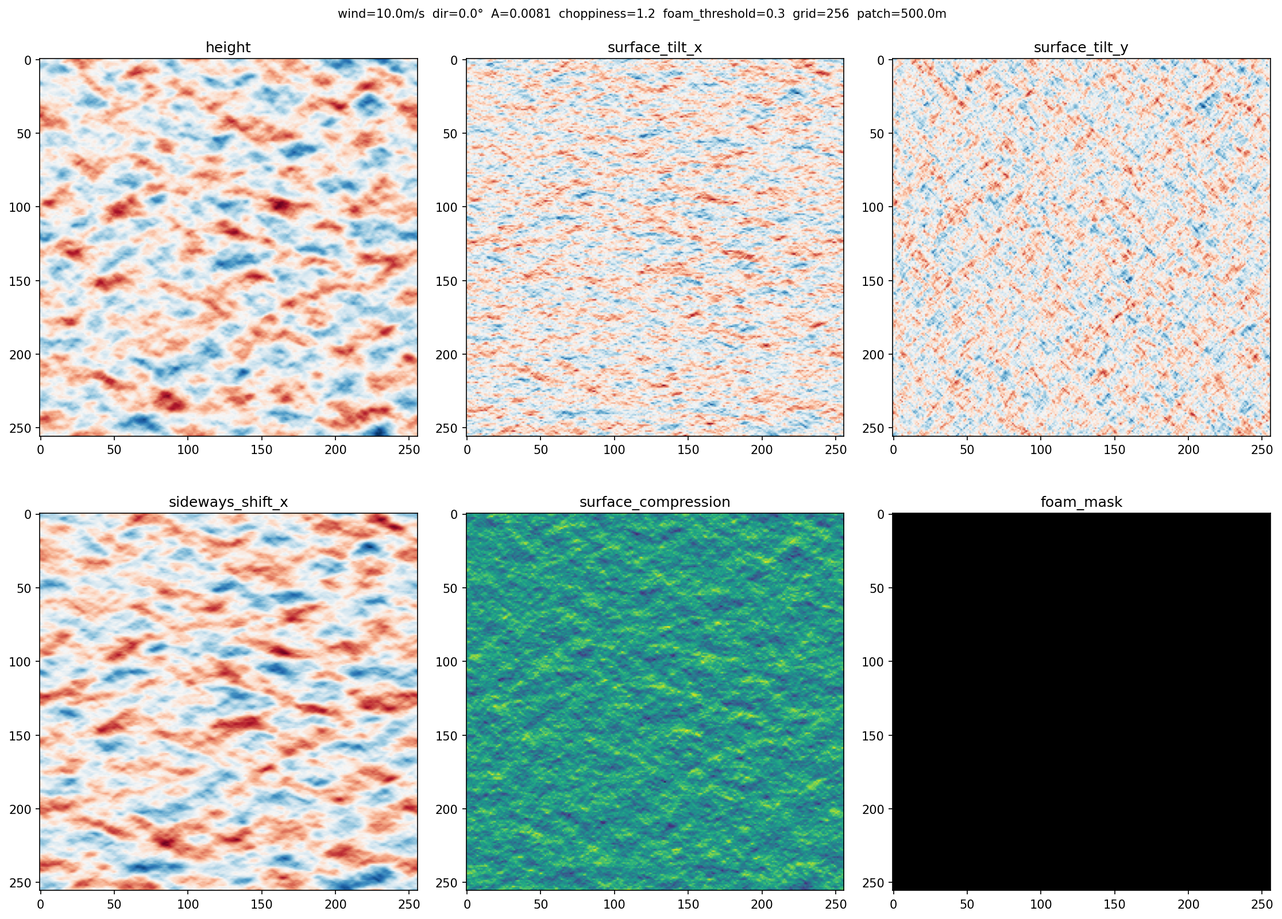
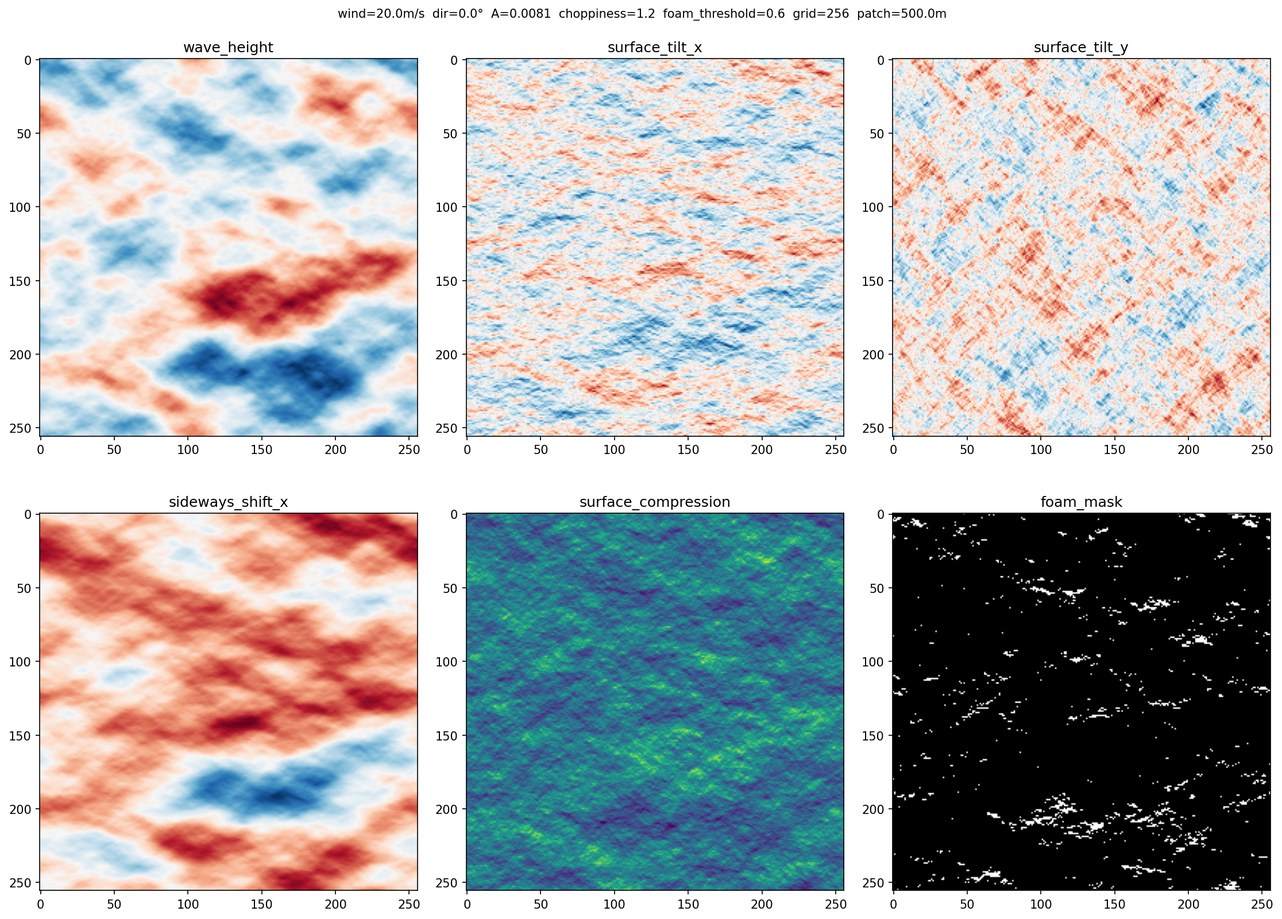
Implemented ModernGL Rendering for ocean

diff --git a/rendering/renderer.py b/rendering/renderer.py
@@ -6,13 +6,9 @@ import pyrr
 from PIL import Image
 
 from ocean.parameters import (
-    CHOPPINESS,
-    FOAM_THRESHOLD,
-    GRID_RESOLUTION,
-    GRID_SIZE,
-    HEIGHT_SCALE,
-    WIND_DIRECTION_DEG,
-    WIND_SPEED,
+    CAMERA_EYE, CHOPPINESS, DEEP_COLOUR, DEPTH_SCALE,
+    FOAM_THRESHOLD, GRID_RESOLUTION, GRID_SIZE, HEIGHT_SCALE,
+    SHALLOW_COLOUR, SUN_DIR, WIND_DIRECTION_DEG, WIND_SPEED,
 )
 
 
@@ -107,27 +103,48 @@ def test_mesh(width=800, height=600):
     print("Mesh render saved")
 
 
-def test_textures(width=800, height=600):
+def test_textures(width=1024, height=1024):
+    from ocean.parameters import default_params
+    params = default_params()
+    image = render(params, width, height)
+    os.makedirs('images', exist_ok=True)
+    image.save('images/test_textures.png')
+    print("Texture render saved")
+
+def run_ocean_pipeline(params):
     from ocean.simulation import compute_oscillation_rates, compute_surface_fields, time_evolve
     from ocean.spectrum import generate_initial_amplitudes, make_spatial_frequency_grid, phillips_spectrum
+
+    freq_x, freq_y, magnitude = make_spatial_frequency_grid(
+        params['grid_resolution'], params['grid_size']
+    )
+    wave_energy = phillips_spectrum(
+        freq_x, freq_y, magnitude, params['wind_speed'], params['wind_direction_deg']
+    )
+    initial_amplitudes, initial_amplitudes_mirror = generate_initial_amplitudes(wave_energy)
+    oscillation_rate = compute_oscillation_rates(magnitude)
+    freq_amplitudes = time_evolve(
+        initial_amplitudes, initial_amplitudes_mirror, oscillation_rate, t=params['time']
+    )
+    wave_height, surface_tilt_x, surface_tilt_y, sideways_shift_x, sideways_shift_y, foam_mask, _ = \
+        compute_surface_fields(
+            freq_amplitudes, freq_x, freq_y, magnitude,
+            params['foam_threshold'], params['choppiness'], params['height_scale']
+        )
+    return wave_height, surface_tilt_x, surface_tilt_y, sideways_shift_x, sideways_shift_y, foam_mask
+
+
+def render(params, width=1024, height=1024):
     from rendering.mesh import create_grid_mesh
     from rendering.textures import upload_all_textures
 
-    # Phase 1 pipeline
-    freq_x, freq_y, magnitude = make_spatial_frequency_grid(GRID_RESOLUTION, GRID_SIZE)
-    wave_energy = phillips_spectrum(freq_x, freq_y, magnitude, WIND_SPEED, WIND_DIRECTION_DEG)
-    initial_amplitudes, initial_amplitudes_mirror = generate_initial_amplitudes(wave_energy)
-    oscillation_rate = compute_oscillation_rates(magnitude)
-    freq_amplitudes = time_evolve(initial_amplitudes, initial_amplitudes_mirror, oscillation_rate, t=0.0)
-    wave_height, surface_tilt_x, surface_tilt_y, sideways_shift_x, sideways_shift_y, foam_mask, _ = \
-        compute_surface_fields(freq_amplitudes, freq_x, freq_y, magnitude, FOAM_THRESHOLD)
-
-    print(f"wave_height min: {wave_height.min():.4f}, max: {wave_height.max():.4f}")
+    wave_height, surface_tilt_x, surface_tilt_y, sideways_shift_x, sideways_shift_y, foam_mask = \
+        run_ocean_pipeline(params)
 
     ctx = create_context()
     fbo = create_framebuffer(ctx, width, height)
     program = load_shaders(ctx)
-    vbo, ibo = create_grid_mesh(ctx, grid_resolution=GRID_RESOLUTION)
+    vbo, ibo = create_grid_mesh(ctx, grid_resolution=params['grid_resolution'])
     vao = ctx.vertex_array(program, [(vbo, '2f', 'in_uv')], ibo)
 
     textures = upload_all_textures(
@@ -135,25 +152,30 @@ def test_textures(width=800, height=600):
     )
     textures['height'].use(location=0)
     textures['sideways_shift'].use(location=1)
+    textures['surface_tilt'].use(location=2)
+    textures['foam_mask'].use(location=3)
     program['u_height'].value = 0
     program['u_sideways_shift'].value = 1
+    program['u_surface_tilt'].value = 2
+    program['u_foam_mask'].value = 3
 
-    view, projection = create_camera_matrices(width, height)
+    view, projection = create_camera_matrices(width, height, eye=params['camera_eye'])
 
     fbo.use()
     ctx.clear(0.05, 0.05, 0.05)
     ctx.enable(moderngl.DEPTH_TEST)
     program['u_view'].write(view.astype('f4').tobytes())
     program['u_projection'].write(projection.astype('f4').tobytes())
-    program['u_grid_size'].value = (GRID_SIZE, GRID_SIZE)
-    program['u_choppiness'].value = CHOPPINESS
-    program['u_height_scale'].value = HEIGHT_SCALE
+    program['u_grid_size'].value = (params['grid_size'], params['grid_size'])
+    program['u_height_scale'].value = params['height_scale']
+    program['u_camera_pos'].value = params['camera_eye']
+    program['u_sun_dir'].value = params['sun_dir']
+    program['u_deep_colour'].value = params['deep_colour']
+    program['u_shallow_colour'].value = params['shallow_colour']
+    program['u_depth_scale'].value = params['depth_scale']
     vao.render()
 
-    image = read_framebuffer(fbo, width, height)
-    os.makedirs('images', exist_ok=True)
-    image.save('images/test_textures.png')
-    print("Texture render saved")
+    return read_framebuffer(fbo, width, height)
 
 
 if __name__ == '__main__':

diff --git a/validation/validate.py b/validation/validate.py
@@ -1,9 +1,20 @@
-import numpy as np
-import matplotlib.pyplot as plt
 import os
-from ocean.spectrum import make_spatial_frequency_grid, phillips_spectrum, generate_initial_amplitudes
-from ocean.simulation import compute_oscillation_rates, time_evolve, compute_surface_fields
-from ocean.parameters import GRID_RESOLUTION, GRID_SIZE, WIND_SPEED, WIND_DIRECTION_DEG, FOAM_THRESHOLD, PHILLIPS_A, CHOPPINESS
+
+import matplotlib.pyplot as plt
+import numpy as np
+
+from ocean.parameters import (
+    CHOPPINESS,
+    FOAM_THRESHOLD,
+    GRID_RESOLUTION,
+    GRID_SIZE,
+    HEIGHT_SCALE,
+    PHILLIPS_A,
+    WIND_DIRECTION_DEG,
+    WIND_SPEED,
+)
+from ocean.simulation import compute_oscillation_rates, compute_surface_fields, time_evolve
+from ocean.spectrum import generate_initial_amplitudes, make_spatial_frequency_grid, phillips_spectrum
 
 freq_x, freq_y, magnitude = make_spatial_frequency_grid(GRID_RESOLUTION, GRID_SIZE)
 wave_energy = phillips_spectrum(freq_x, freq_y, magnitude, WIND_SPEED, WIND_DIRECTION_DEG)
@@ -11,8 +22,8 @@ initial_amplitudes, initial_amplitudes_mirror = generate_initial_amplitudes(wave
 oscillation_rate = compute_oscillation_rates(magnitude)
 
 freq_amplitudes = time_evolve(initial_amplitudes, initial_amplitudes_mirror, oscillation_rate, t=0.0)
-height, surface_tilt_x, surface_tilt_y, sideways_shift_x, sideways_shift_y, foam_mask, surface_compression = \
-    compute_surface_fields(freq_amplitudes, freq_x, freq_y, magnitude, FOAM_THRESHOLD)
+wave_height, surface_tilt_x, surface_tilt_y, sideways_shift_x, sideways_shift_y, foam_mask, surface_compression = \
+    compute_surface_fields(freq_amplitudes, freq_x, freq_y, magnitude, FOAM_THRESHOLD, CHOPPINESS, HEIGHT_SCALE)
 
 assert np.allclose(np.fft.ifft2(freq_amplitudes).imag, 0, atol=1e-10), \
     "heightmap has imaginary residue — check initial_amplitudes_mirror"
@@ -28,6 +39,7 @@ print(f"  FOAM_THRESHOLD:     {FOAM_THRESHOLD}")
 print("--- Surface compression ---")
 print(f"  min: {surface_compression.min():.4f}")
 print(f"  max: {surface_compression.max():.4f}")
+print(f"  foam pixels: {(surface_compression < FOAM_THRESHOLD).sum()}")
 
 fig, axes = plt.subplots(2, 3, figsize=(15, 11))
 fig.suptitle(
@@ -37,12 +49,12 @@ fig.suptitle(
     fontsize=10
 )
 
-axes[0,0].imshow(height, cmap='RdBu');               axes[0,0].set_title('height')
-axes[0,1].imshow(surface_tilt_x, cmap='RdBu');       axes[0,1].set_title('surface_tilt_x')
-axes[0,2].imshow(surface_tilt_y, cmap='RdBu');       axes[0,2].set_title('surface_tilt_y')
-axes[1,0].imshow(sideways_shift_x, cmap='RdBu');     axes[1,0].set_title('sideways_shift_x')
-axes[1,1].imshow(surface_compression, cmap='viridis'); axes[1,1].set_title('surface_compression')
-axes[1,2].imshow(foam_mask, cmap='gray');             axes[1,2].set_title('foam_mask')
+axes[0, 0].imshow(wave_height, cmap='RdBu');          axes[0, 0].set_title('wave_height')
+axes[0, 1].imshow(surface_tilt_x, cmap='RdBu');       axes[0, 1].set_title('surface_tilt_x')
+axes[0, 2].imshow(surface_tilt_y, cmap='RdBu');       axes[0, 2].set_title('surface_tilt_y')
+axes[1, 0].imshow(sideways_shift_x, cmap='RdBu');     axes[1, 0].set_title('sideways_shift_x')
+axes[1, 1].imshow(surface_compression, cmap='viridis'); axes[1, 1].set_title('surface_compression')
+axes[1, 2].imshow(foam_mask, cmap='gray');             axes[1, 2].set_title('foam_mask')
 
 plt.tight_layout()
 output_path = 'images/validation.png'

diff --git a/ocean/simulation.py b/ocean/simulation.py
@@ -15,22 +15,22 @@ def time_evolve(initial_amplitudes, initial_amplitudes_mirror, oscillation_rate,
     return freq_amplitudes
 
 
-def compute_surface_fields(freq_amplitudes, freq_x, freq_y, magnitude, foam_threshold):
+def compute_surface_fields(freq_amplitudes, freq_x, freq_y, magnitude, foam_threshold, choppiness, height_scale):
     magnitude_nonzero = np.where(magnitude == 0, 1e-6, magnitude)
 
-    height = np.real(np.fft.ifft2(freq_amplitudes))
+    wave_height = np.real(np.fft.ifft2(freq_amplitudes))
 
     surface_tilt_x = np.real(np.fft.ifft2(1j * freq_x * freq_amplitudes))
     surface_tilt_y = np.real(np.fft.ifft2(1j * freq_y * freq_amplitudes))
 
-    sideways_shift_x = np.real(np.fft.ifft2(1j * (freq_x / magnitude_nonzero) * freq_amplitudes))
-    sideways_shift_y = np.real(np.fft.ifft2(1j * (freq_y / magnitude_nonzero) * freq_amplitudes))
+    sideways_shift_x = np.real(np.fft.ifft2(1j * (freq_x / magnitude_nonzero) * freq_amplitudes)) * choppiness * height_scale
+    sideways_shift_y = np.real(np.fft.ifft2(1j * (freq_y / magnitude_nonzero) * freq_amplitudes)) * choppiness * height_scale
 
-    shift_x_rate_x = np.real(np.fft.ifft2(-freq_x**2 / magnitude_nonzero * freq_amplitudes))
-    shift_y_rate_y = np.real(np.fft.ifft2(-freq_y**2 / magnitude_nonzero * freq_amplitudes))
-    shift_x_rate_y = np.real(np.fft.ifft2(-freq_x * freq_y / magnitude_nonzero * freq_amplitudes))
+    shift_x_rate_x = np.real(np.fft.ifft2(-freq_x**2 / magnitude_nonzero * freq_amplitudes)) * choppiness * height_scale
+    shift_y_rate_y = np.real(np.fft.ifft2(-freq_y**2 / magnitude_nonzero * freq_amplitudes)) * choppiness * height_scale
+    shift_x_rate_y = np.real(np.fft.ifft2(-freq_x * freq_y / magnitude_nonzero * freq_amplitudes)) * choppiness * height_scale
 
     surface_compression = (1 + shift_x_rate_x) * (1 + shift_y_rate_y) - shift_x_rate_y**2
     foam_mask = (surface_compression < foam_threshold).astype(np.float32)
 
-    return height, surface_tilt_x, surface_tilt_y, sideways_shift_x, sideways_shift_y, foam_mask, surface_compression
+    return wave_height, surface_tilt_x, surface_tilt_y, sideways_shift_x, sideways_shift_y, foam_mask, surface_compression

diff --git a/ocean/parameters.py b/ocean/parameters.py
@@ -1,9 +1,33 @@
 G = 9.81
 PHILLIPS_A = 0.0081
-WIND_SPEED = 10.0
+WIND_SPEED = 20.0
 WIND_DIRECTION_DEG = 0.0
 CHOPPINESS = 1.2
-FOAM_THRESHOLD = 0.3
+FOAM_THRESHOLD = 0.6
 GRID_RESOLUTION = 256
 GRID_SIZE = 500.0
-HEIGHT_SCALE = 5000.0
+HEIGHT_SCALE = 500.0
+
+CAMERA_EYE = (600, 250, 600)
+SUN_DIR = (1.0, 1.0, 0.5)
+DEEP_COLOUR = (0.02, 0.15, 0.3)
+SHALLOW_COLOUR = (0.1, 0.4, 0.5)
+
+DEPTH_SCALE = 0.001
+
+def default_params():
+    return {
+        'grid_resolution':   GRID_RESOLUTION,
+        'grid_size':         GRID_SIZE,
+        'wind_speed':        WIND_SPEED,
+        'wind_direction_deg': WIND_DIRECTION_DEG,
+        'choppiness':        CHOPPINESS,
+        'foam_threshold':    FOAM_THRESHOLD,
+        'height_scale':      HEIGHT_SCALE,
+        'depth_scale':       DEPTH_SCALE,
+        'time':              0.0,
+        'camera_eye':        CAMERA_EYE,
+        'sun_dir':           SUN_DIR,
+        'deep_colour':       DEEP_COLOUR,
+        'shallow_colour':    SHALLOW_COLOUR,
+    }
